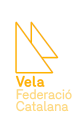
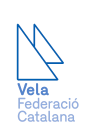
change color schema

Changed region(s): [[0.1707, 0.168, 0.878, 0.912]]

diff --git a/assets/css/style.css b/assets/css/style.css
@@ -1,4 +1,4 @@
-@import url('https://fonts.googleapis.com/css?family=Montserrat:400,500,700,900&display=swap');
+@import url('https://fonts.googleapis.com/css?family=Montserrat:400,500,700&display=swap');
 
 /* ------------------------------ Global */
 body {
@@ -25,7 +25,7 @@ a:hover, a:visited, a:link, a:active
 }
 
 #spy {
-    background-color: #CCE4E7;
+    background-color: #FFF8E6;
 }
 
 .menuitem {
@@ -34,31 +34,31 @@ a:hover, a:visited, a:link, a:active
 }
 
 .menuitem span {
-    color: #FFB400;
+    color: #007A87;
 }
 
 .menulink.active {
-    background-color: #007A87 !important;
+    background-color: #FFCB4D !important;
 }
 
 /* ------------------------------ Sections */
 
 .section-heading {
-    font-weight: 900;
-    color: #FFB400;
+    font-weight: 700;
+    color: #007A87;
     text-transform: uppercase;
 }
 
 .section-subheading {
     font-weight: 500;
-    color: #FFB400;
+    color: #007A87;
     text-transform: uppercase;
 }
 
 .section-1a {
-    font-weight: 900;
+    font-weight: 700;
     text-align: right;
-    background-color: #007A87;
+    background-color: #FFCB4D;
     color: #ffffff;
 }
 
@@ -75,44 +75,48 @@ a:hover, a:visited, a:link, a:active
     padding: 30px 30px;
 }
 
+.coordinates {
+    font-weight: 700;
+}
+
 .text-highlight {
-    color: #FFB400;
+    color: #007A87;
 }
 
 .card-custom {
-    border: 1px solid #007A87;
+    border: 1px solid #FFCB4D;
 }
 
 .card-header-custom {
     padding: .75rem 1.25rem;
     margin-bottom: 0;
-    background-color: #007A87;
-    border-bottom: 2px solid #007A87;
+    background-color: #FFCB4D;
+    border-bottom: 2px solid #FFCB4D;
 }
 
 .card-header-text {
     margin-bottom: 0;
-    color: #FFB400;
+    color: #007A87;
     font-weight: 700;
 }
 
 .card-footer-custom {
-    background-color: #CCE4E7;
-    border-top: 1px solid #007A87;
+    background-color: #FFCB4D;
+    border-top: 1px solid #FFCB4D;
 }
 
 .card-button-custom {
-    color: #FFB400;
-    border: 3px solid #FFB400;
-    font-weight: 900;
+    color: #007A87;
+    border: 3px solid #007A87;
+    font-weight: 700;
 }
 
 .card-button-custom:hover {
-    color: #007A87;
+    color: #66AFB7;
 }
 
 .section-sponsors {
-    background-color: #007A87;
+    background-color: #FFCB4D;
 }
 
 .center-form {
@@ -121,18 +125,30 @@ a:hover, a:visited, a:link, a:active
     max-width: 70%;
 }
 
+.form-control-custom {
+    margin: .75rem 0;
+    background-color: #FFF8E6;
+}
+
 button[type="submit"] {
     margin-top: 15px;
     margin-bottom: 20px;
-    color: #FFB400;
-    background-color: #007A87;
+    color: #007A87;
+    background-color: #FFCB4D;
+    border: 3px solid #007A87;
+    font-weight: 700;
+}
+
+button[type="submit"]:hover {
+    color: #66AFB7;
+    background-color: #FFCB4D;
 }
 
 /* ------------------------------ Footer */
 
 footer {
-    background-color: #007A87;
-    color: #FFB400;
+    background-color: #FFCB4D;
+    color: #007A87;
     margin: 0;
 }
 
@@ -146,11 +162,11 @@ footer .heading {
 }
 
 footer a {
-    color: #FFB400;
+    color: #007A87;
 }
 
 footer a:hover {
-    color: #FFDA80;
+    color: #66AFB7;
 }
 
 .social-links li a i {
@@ -161,8 +177,8 @@ footer a:hover {
     font-size: 13px;
     line-height: 7px;
     text-align: center;
-    color: #007A87;
-    background: #FFB400;
+    color: #FFCB4D;
+    background: #007A87;
     transition: all 0.35s ease-in-out;
     -moz-transition: all 0.35s ease-in-out;
     -webkit-transition: all 0.35s ease-in-out;
@@ -170,7 +186,7 @@ footer a:hover {
 }
 
 .social-links li a i:hover {
-    background: #FFDA80;
+    background: #66AFB7;
 }
 
 /* ------------------------------ Media Queries */

diff --git a/index.html b/index.html
@@ -52,7 +52,7 @@
         <div class="row">
             <div class="col-md-6 section-1a">
                 <div class="section-1a-rowmain">
-                    <span class="text-highlight">7</span> & <span class="text-highlight">8 June</span> 2019
+                    7<span class="text-highlight"> & </span>8 June 2019
                 </div>
                 <div class="section-1a-rowmain">
                     <span class="text-highlight">XI COSTA BRAVA</span>
@@ -72,8 +72,8 @@
             <div class="col">
                 <div class="row">
                     <div class="col col-md-5 section-course-description">
-                        <p>41°31'31.1"N 2°26'46.4"E<br>The regata will be raced on the coast of
-                            Calunya and it will be about 70 nautical miles long. Starting time is at 18:00h and the starting line will be positioned in front of Mataró harbour. The sailing yacths will sail nord and need to leave the Medes islands on their port side before undertaking the last leg towards Port d'Aro.<br>41°48'00.8"N 3°03'57.9"E</p>
+                        <p><span class="coordinates">41°31'31.1"N 2°26'46.4"E</span><br>The regata will be raced on the coast of
+                            Calunya and it will be about 70 nautical miles long. Starting time is at 18:00h and the starting line will be positioned in front of Mataró harbour. The sailing yacths will sail nord and need to leave the Medes islands on their port side before undertaking the last leg towards Port d'Aro.<br><span class="coordinates">41°48'00.8"N 3°03'57.9"E</span></p>
                     </div>
                 </div>
 
@@ -180,11 +180,11 @@
         <h3 class="section-heading uppercase text-center mb-3">Sign me up to race !</h3>
         <div class="center-form">
             <form>
-                <input type="text" name="boatname" id="boatname" class="form-control" placeholder="Your boat's name"
+                <input type="text" name="boatname" id="boatname" class="form-control form-control-custom" placeholder="Your boat's name"
                     required />
-                <input type="text" name="skipper" id="skipper" class="form-control" placeholder="Skipper's name"
+                <input type="text" name="skipper" id="skipper" class="form-control form-control-custom" placeholder="Skipper's name"
                     required />
-                <input type="email" name="email" id="emailaddress" class="form-control" placeholder="Email" required />
+                <input type="email" name="email" id="emailaddress" class="form-control form-control-custom" placeholder="Email" required />
                 <fieldset class="form-group">
                     <div class="form-row">
                         <legend class="col-form-label">Your participation package:</legend>
